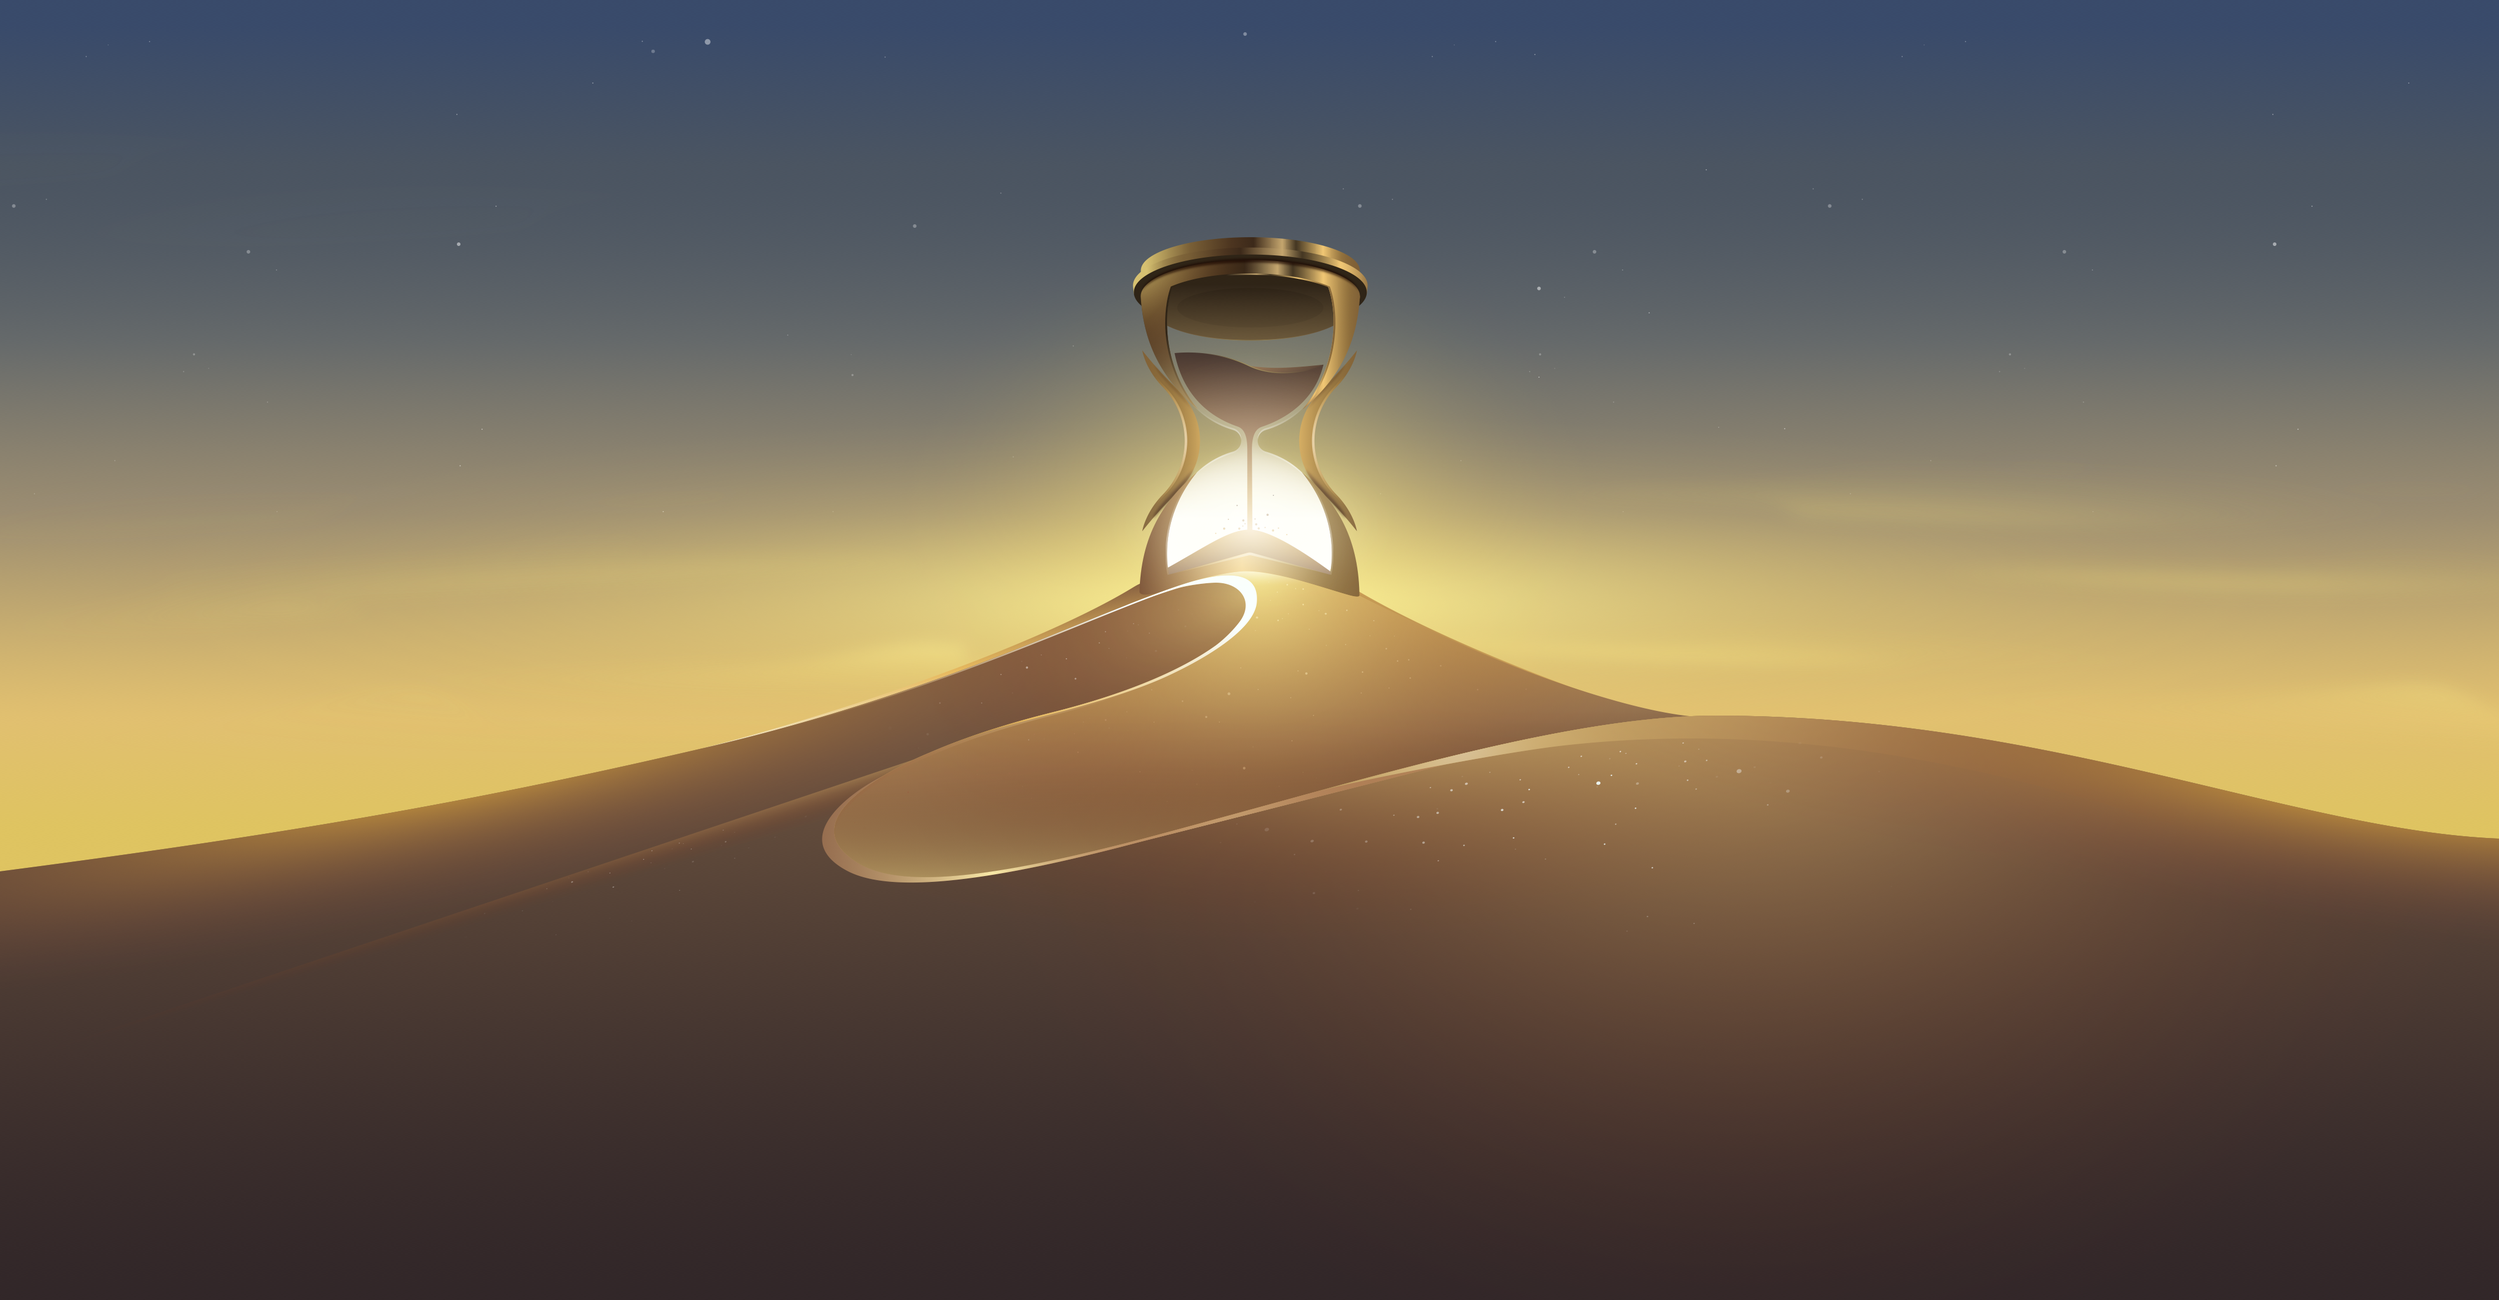
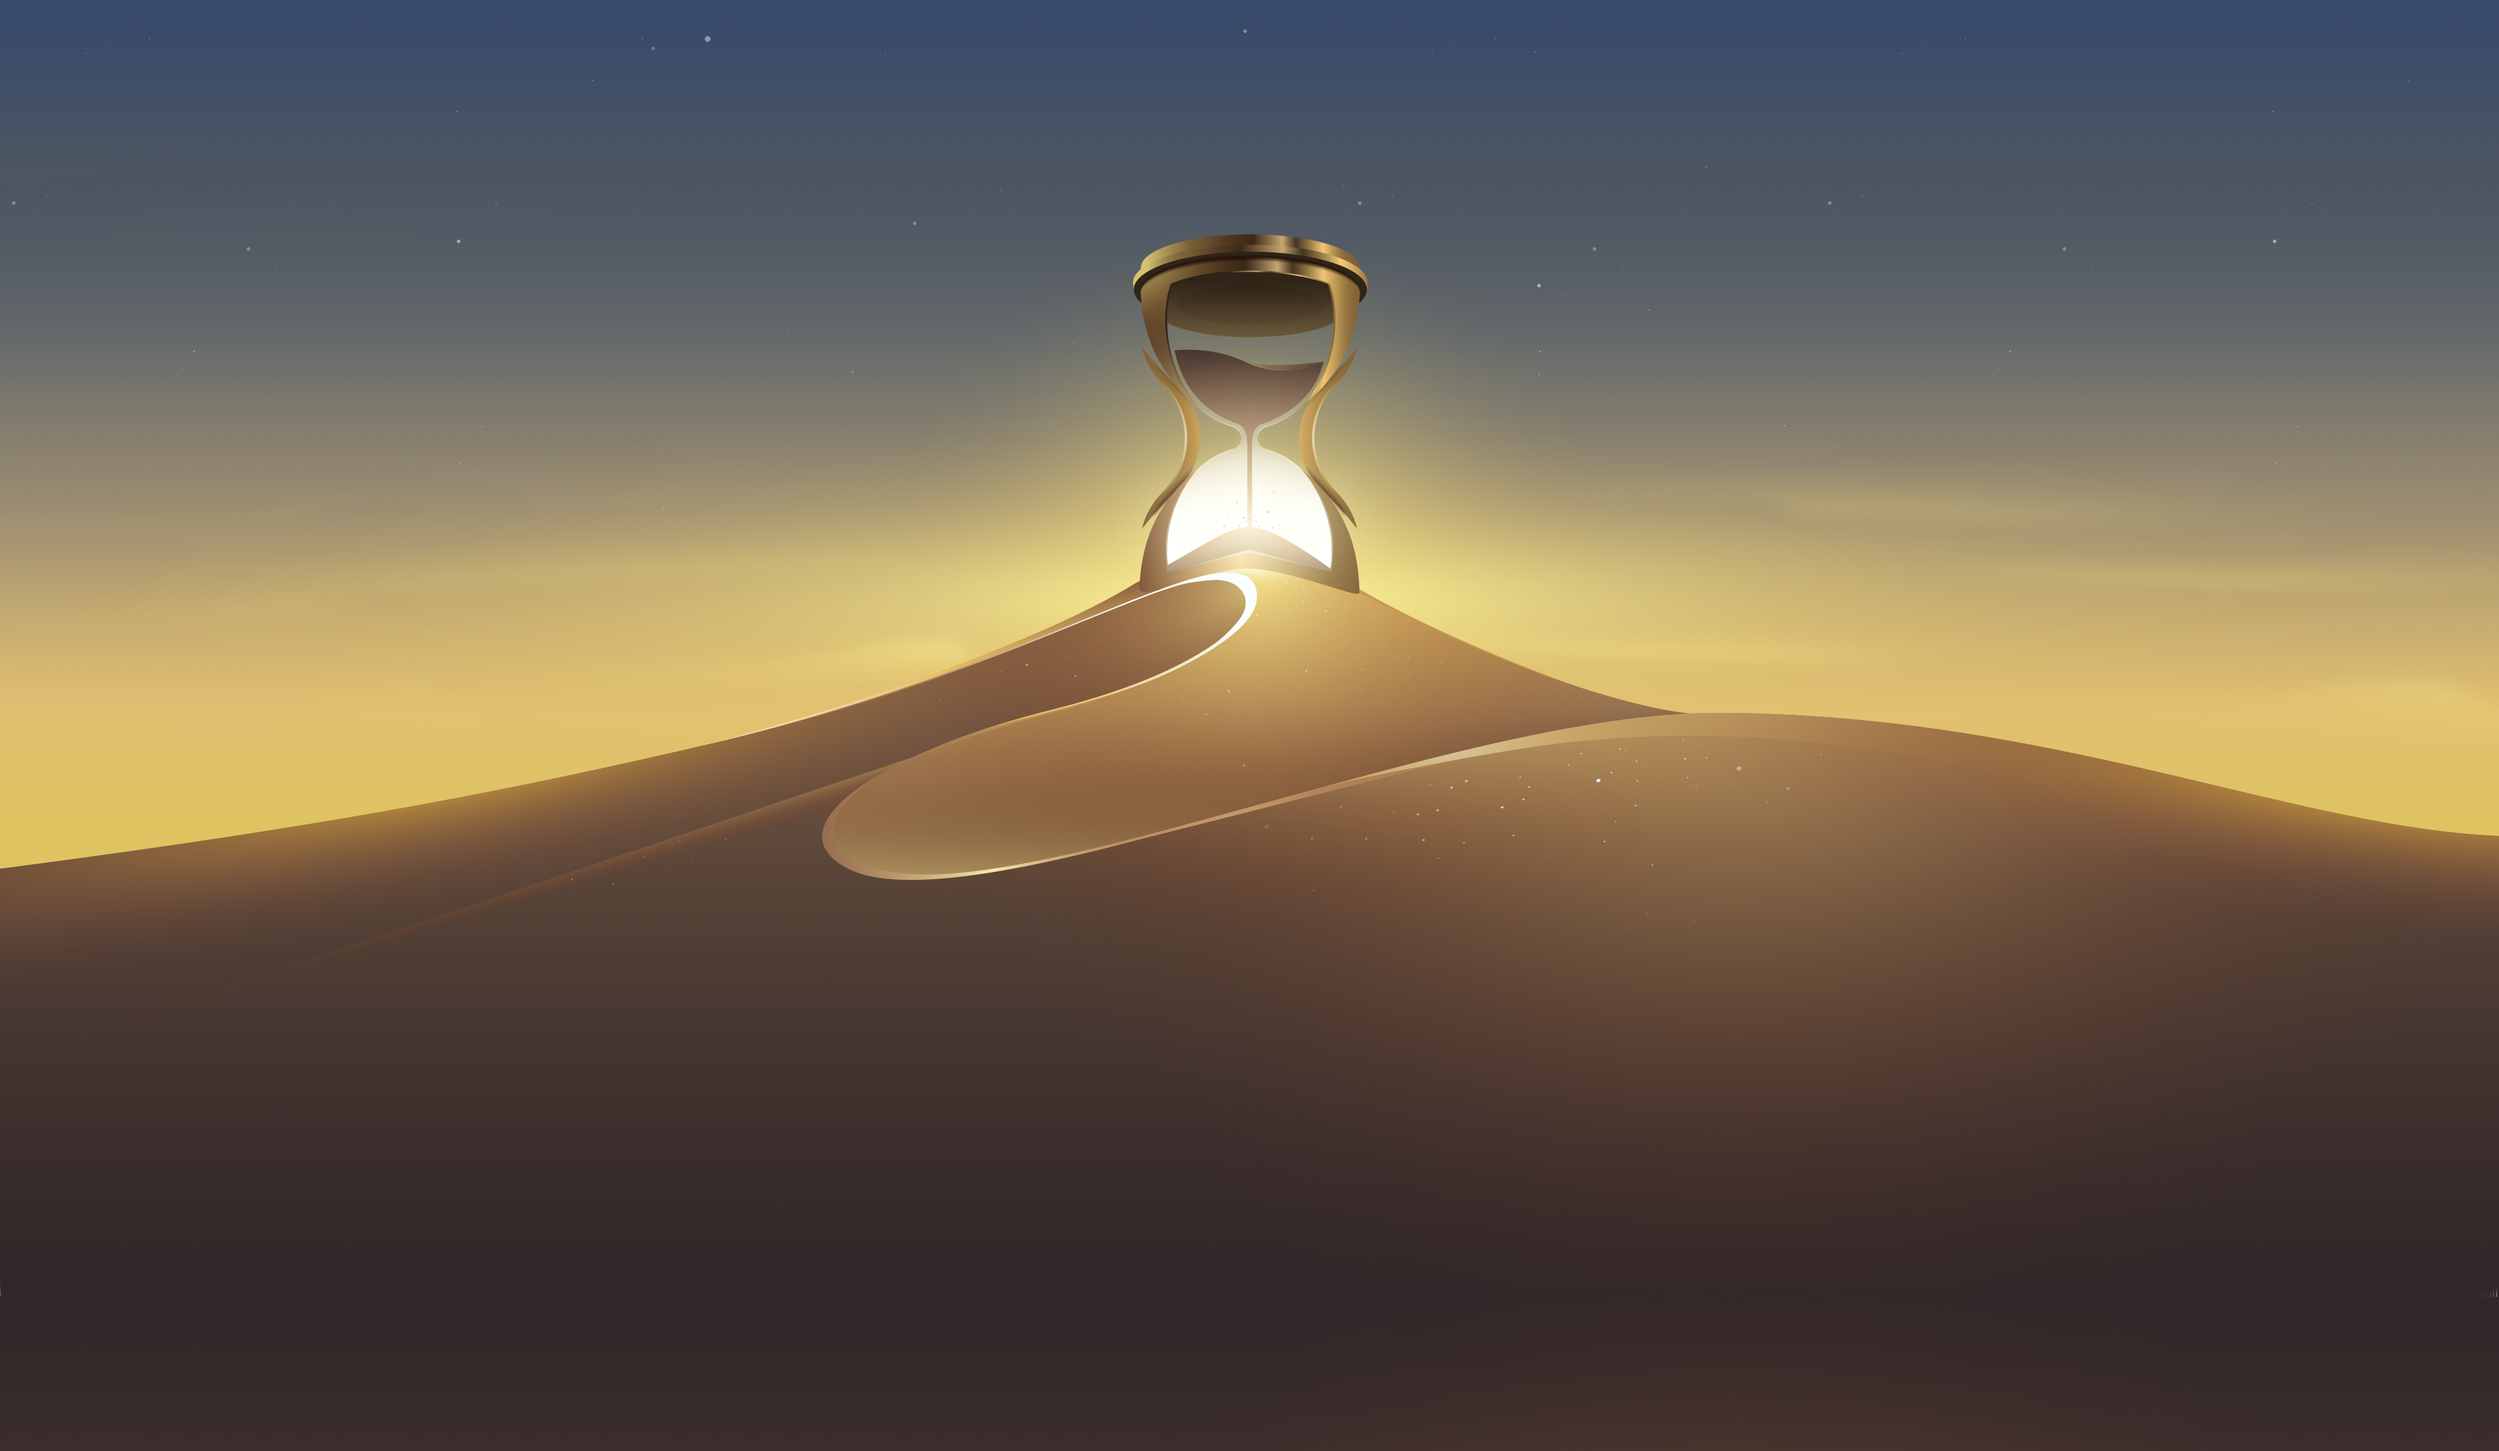
new background

Changed region(s): [[0.0, 0.1554, 1.0, 0.777], [0.9041, 0.4662, 1.0, 0.4973]]

diff --git a/src/features/documentation/landing/desktop/banner.tsx b/src/features/documentation/landing/desktop/banner.tsx
@@ -21,7 +21,7 @@ export function Banner() {
       speed={0}
       factor={1}
       style={{
-        height: '80vh',
+        height: '95vh',
         backgroundImage: 'url(./background/Hourglass_Dune_80.png)',
         backgroundSize: 'cover',
         backgroundPosition: 'center',
